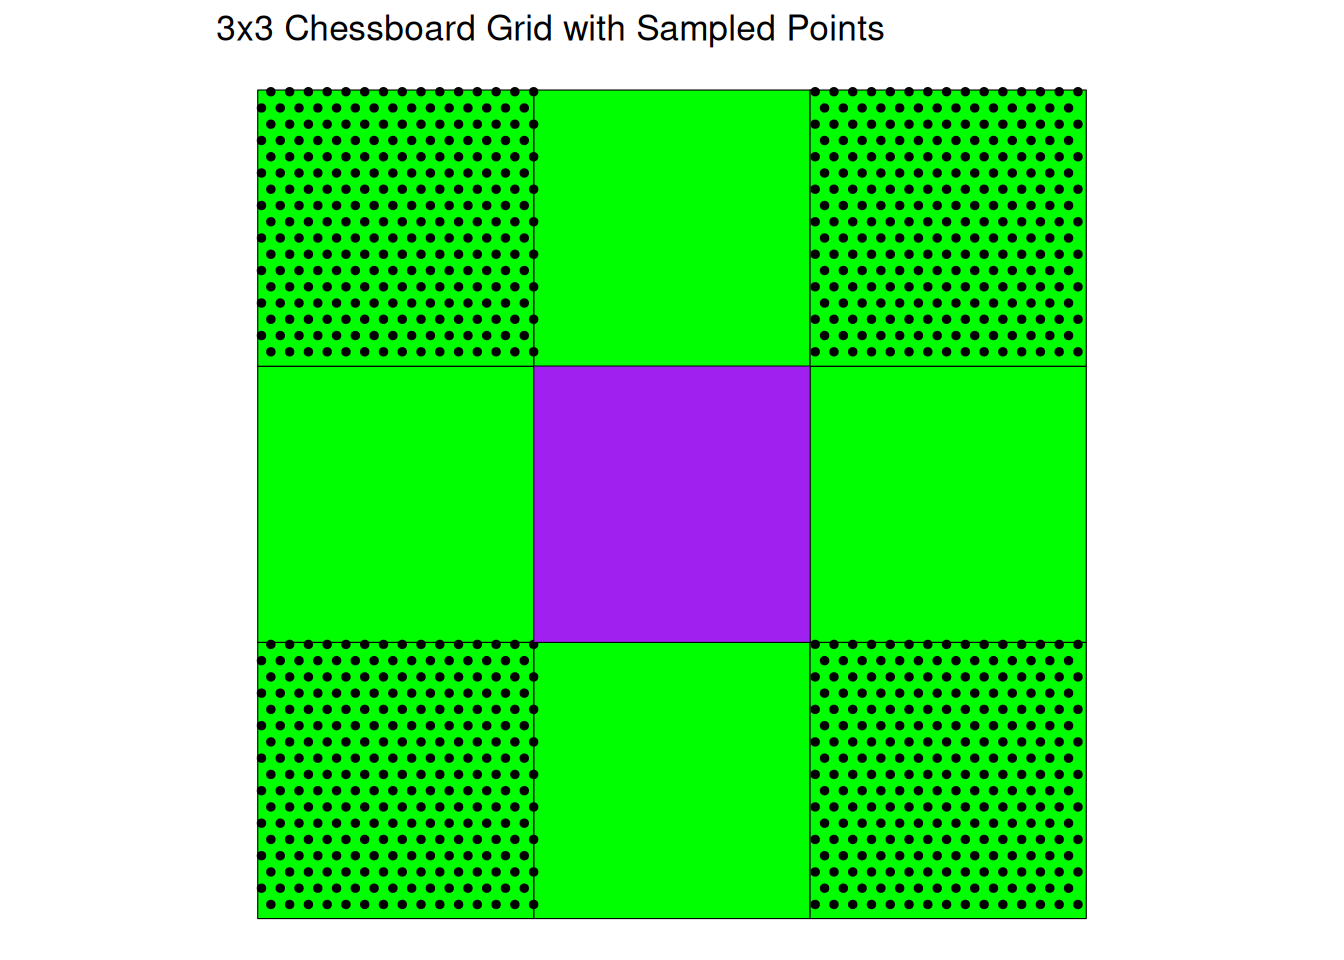
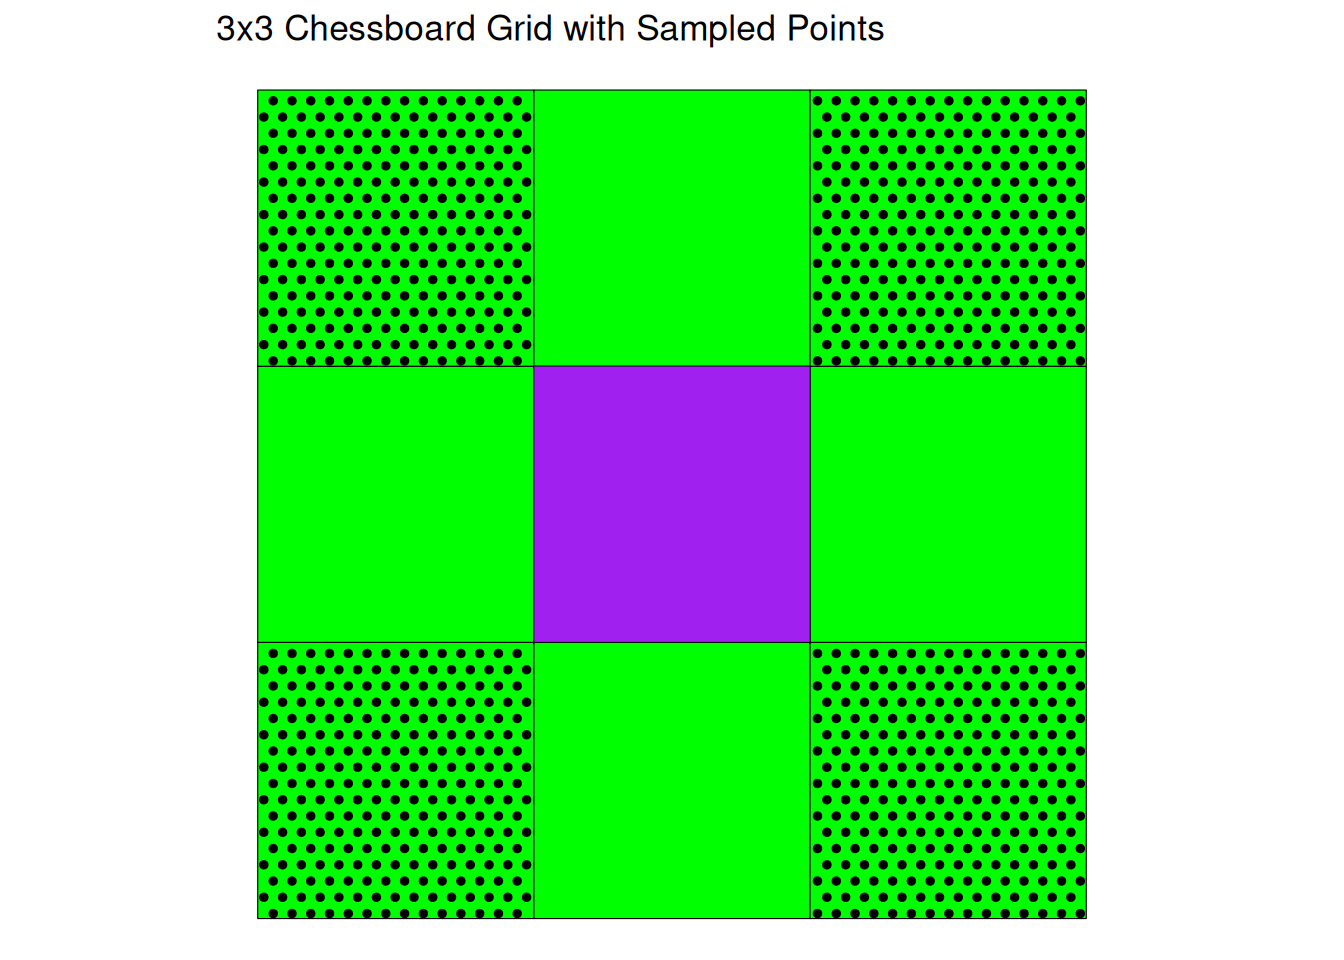
Built site for gh-pages

diff --git a/index.html b/index.html
@@ -74,17 +74,58 @@ pre > code.sourceCode > span > a:first-child::before { text-decoration: underlin
 
 </head>
 
-<body class="fullcontent quarto-light">
+<body class="quarto-light">
 
 <div id="quarto-content" class="page-columns page-rows-contents page-layout-article">
-
+<div id="quarto-margin-sidebar" class="sidebar margin-sidebar">
+  <nav id="TOC" role="doc-toc" class="toc-active">
+    <h2 id="toc-title">Table of contents</h2>
+   
+  <ul>
+  <li><a href="#introduction" id="toc-introduction" class="nav-link active" data-scroll-target="#introduction">Introduction</a>
+  <ul class="collapse">
+  <li><a href="#task-1" id="toc-task-1" class="nav-link" data-scroll-target="#task-1">Task 1</a>
+  <ul class="collapse">
+  <li><a href="#setting-up-the-environment-for-the-forest-area-analysis" id="toc-setting-up-the-environment-for-the-forest-area-analysis" class="nav-link" data-scroll-target="#setting-up-the-environment-for-the-forest-area-analysis">Setting Up the Environment for the Forest Area Analysis</a></li>
+  <li><a href="#reading-and-inspecting-the-spatial-data" id="toc-reading-and-inspecting-the-spatial-data" class="nav-link" data-scroll-target="#reading-and-inspecting-the-spatial-data">Reading and Inspecting the Spatial Data</a></li>
+  <li><a href="#extracting-forest-areas-and-assigning-them-to-cantons" id="toc-extracting-forest-areas-and-assigning-them-to-cantons" class="nav-link" data-scroll-target="#extracting-forest-areas-and-assigning-them-to-cantons">Extracting Forest Areas and Assigning Them to Cantons</a></li>
+  <li><a href="#calculating-forest-area-per-canton" id="toc-calculating-forest-area-per-canton" class="nav-link" data-scroll-target="#calculating-forest-area-per-canton">Calculating Forest Area per Canton</a></li>
+  <li><a href="#measuring-runtime" id="toc-measuring-runtime" class="nav-link" data-scroll-target="#measuring-runtime">Measuring Runtime</a></li>
+  <li><a href="#creating-a-binned-choropleth-map" id="toc-creating-a-binned-choropleth-map" class="nav-link" data-scroll-target="#creating-a-binned-choropleth-map">Creating a Binned Choropleth Map</a></li>
+  <li><a href="#creating-a-horizontal-bar-chart-of-forest-cover" id="toc-creating-a-horizontal-bar-chart-of-forest-cover" class="nav-link" data-scroll-target="#creating-a-horizontal-bar-chart-of-forest-cover">Creating a Horizontal Bar Chart of Forest Cover</a></li>
+  </ul></li>
+  <li><a href="#task-2" id="toc-task-2" class="nav-link" data-scroll-target="#task-2">Task 2</a>
+  <ul class="collapse">
+  <li><a href="#setting-up-the-database-connection" id="toc-setting-up-the-database-connection" class="nav-link" data-scroll-target="#setting-up-the-database-connection">Setting Up the Database Connection</a></li>
+  <li><a href="#measuring-the-forest-area-per-canton" id="toc-measuring-the-forest-area-per-canton" class="nav-link" data-scroll-target="#measuring-the-forest-area-per-canton">Measuring the Forest Area per Canton</a></li>
+  <li><a href="#calculating-forest-fraction" id="toc-calculating-forest-fraction" class="nav-link" data-scroll-target="#calculating-forest-fraction">Calculating Forest Fraction</a></li>
+  <li><a href="#stopping-the-timer" id="toc-stopping-the-timer" class="nav-link" data-scroll-target="#stopping-the-timer">Stopping the Timer</a></li>
+  <li><a href="#inspecting-the-results" id="toc-inspecting-the-results" class="nav-link" data-scroll-target="#inspecting-the-results">Inspecting the Results</a></li>
+  <li><a href="#disconnecting-from-the-database" id="toc-disconnecting-from-the-database" class="nav-link" data-scroll-target="#disconnecting-from-the-database">Disconnecting from the Database</a></li>
+  </ul></li>
+  <li><a href="#task-3" id="toc-task-3" class="nav-link" data-scroll-target="#task-3">Task 3</a>
+  <ul class="collapse">
+  <li><a href="#loading-the-chessboard-dataset" id="toc-loading-the-chessboard-dataset" class="nav-link" data-scroll-target="#loading-the-chessboard-dataset">Loading the chessboard Dataset</a></li>
+  <li><a href="#the-kingqueen-case" id="toc-the-kingqueen-case" class="nav-link" data-scroll-target="#the-kingqueen-case">The King/Queen case</a></li>
+  <li><a href="#the-bishop-case" id="toc-the-bishop-case" class="nav-link" data-scroll-target="#the-bishop-case">The Bishop case</a></li>
+  </ul></li>
+  </ul></li>
+  </ul>
+</nav>
+</div>
 <main class="content" id="quarto-document-content">
 
 
 
 
-<section id="solution-for-vector-deepdive" class="level1">
-<h1>Solution for Vector Deepdive</h1>
+<div style="display: flex; align-items: center; margin-bottom: 20px;">
+<img src="images/logo.png" style="width: 250px; margin-right: 20px;">
+<h1 style="margin: 0;">
+Solution for Vector Deepdive
+</h1>
+</div>
+<section id="introduction" class="level1">
+<h1>Introduction</h1>
 <p>In this file I am going to present my solutions for the Vector Deepdive exercise.</p>
 <section id="task-1" class="level2">
 <h2 class="anchored" data-anchor-id="task-1">Task 1</h2>
@@ -208,7 +249,7 @@ Projected CRS: CH1903+ / LV95</code></pre>
 <div class="cell">
 <div class="code-copy-outer-scaffold"><div class="sourceCode cell-code" id="cb11"><pre class="sourceCode r code-with-copy"><code class="sourceCode r"><span id="cb11-1"><a href="#cb11-1" aria-hidden="true" tabindex="-1"></a><span class="fu">toc</span>()</span></code></pre></div><button title="Copy to Clipboard" class="code-copy-button"><i class="bi"></i></button></div>
 <div class="cell-output cell-output-stdout">
-<pre><code>Forest fraction calculation task 1: 277.736 sec elapsed</code></pre>
+<pre><code>Forest fraction calculation task 1: 242.028 sec elapsed</code></pre>
 </div>
 </div>
 </section>
@@ -363,7 +404,7 @@ Projected CRS: CH1903+ / LV95</code></pre>
 <div class="cell">
 <div class="code-copy-outer-scaffold"><div class="sourceCode cell-code" id="cb25"><pre class="sourceCode r code-with-copy"><code class="sourceCode r"><span id="cb25-1"><a href="#cb25-1" aria-hidden="true" tabindex="-1"></a><span class="fu">toc</span>()</span></code></pre></div><button title="Copy to Clipboard" class="code-copy-button"><i class="bi"></i></button></div>
 <div class="cell-output cell-output-stdout">
-<pre><code>Forest fraction calculation task 2: 0.182 sec elapsed</code></pre>
+<pre><code>Forest fraction calculation task 2: 0.037 sec elapsed</code></pre>
 </div>
 </div>
 <p>After the heavy computation is complete, I stop the timer to see how long the forest fraction calculation took. Compared to when I did the same exercise in R using the sf package (see above), the DuckDB approach is significantly faster.</p>
